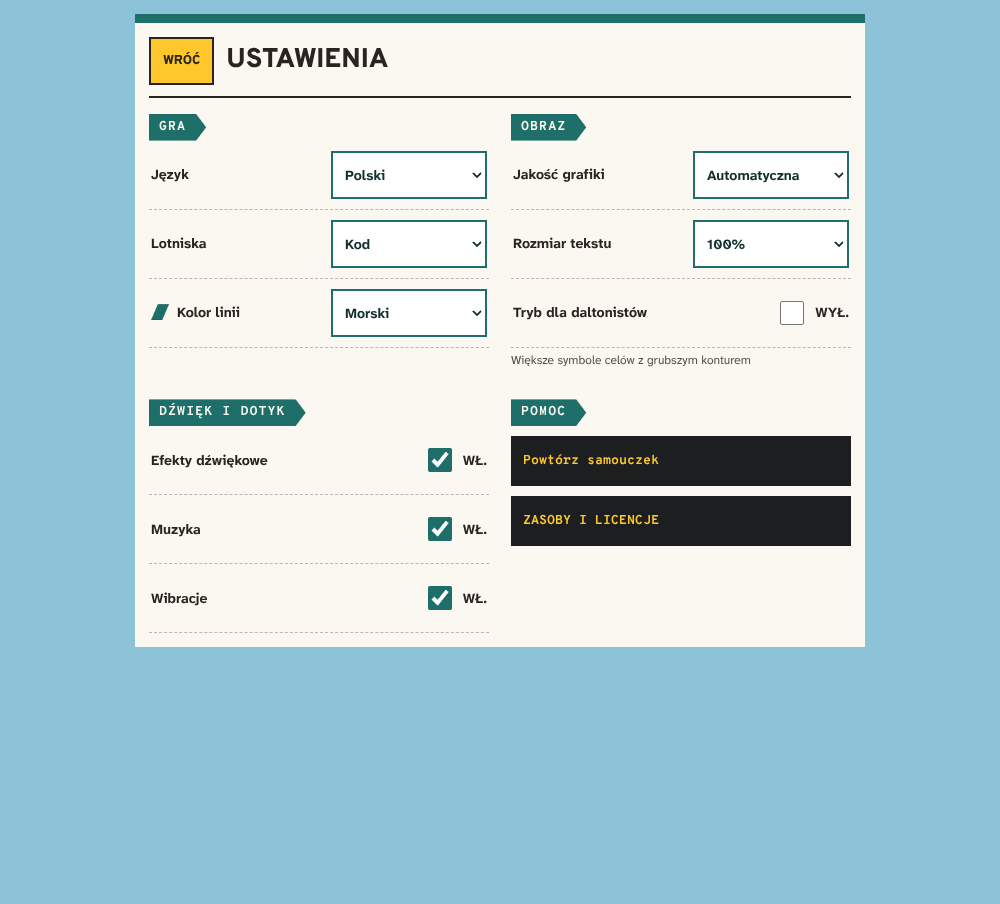
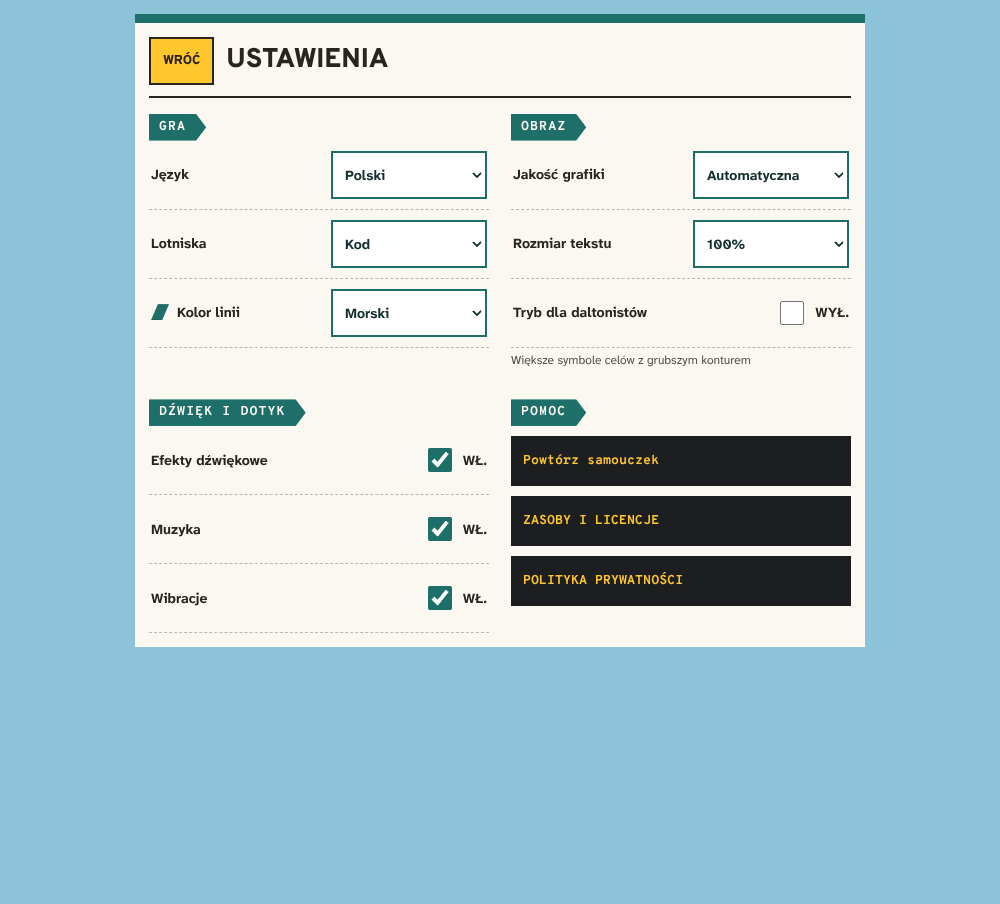
[N11e] Privacy policy reachable in the app; D-86, Q-52
Settings -> Help gains a 'Privacy policy' row that opens an in-app page with
the text of site/privacy.html (PL/EN, offline, back -> settings, globe covered).
test:privacy-text keeps the game copy equal to site/i18n.js; e2e privacy-page
checks the journey at four sizes. Also removes conflict markers committed in
docs/DECISIONS.md and gives the licences row a test id.

Changed region(s): [[0.496, 0.5885, 0.868, 0.6814]]

diff --git a/scripts/test-privacy-text.ts b/scripts/test-privacy-text.ts
@@ -1,0 +1,50 @@
+// [night-11e] The in-app privacy policy (settings → Privacy policy) shows the same text as the website's
+// site/privacy.html: every `privacy.*` key that page uses exists in both game catalogs with the exact site wording,
+// the sections are the page's sections in order, and the settings row has its label.
+import assert from 'node:assert/strict';
+import { readFileSync } from 'node:fs';
+import { en } from '../src/i18n/en.ts';
+import { pl } from '../src/i18n/pl.ts';
+import { translations } from '../site/i18n.js';
+
+let passed = 0;
+let failed = 0;
+function test(name: string, fn: () => void): void {
+  try { fn(); passed++; console.log(`PASS ${name}`); } catch (error) {
+    failed++; console.error(`FAIL ${name}: ${error instanceof Error ? error.message : String(error)}`);
+  }
+}
+
+const html = readFileSync(new URL('../site/privacy.html', import.meta.url), 'utf8');
+// Website-only keys: navigation back to the landing page has no meaning inside the app.
+const SITE_ONLY = new Set(['privacy.back']);
+const pageKeys = [...html.matchAll(/data-i18n="(privacy\.[^"]+)"/g)].map((match) => match[1] as string)
+  .filter((key, index, all) => !SITE_ONLY.has(key) && all.indexOf(key) === index);
+const games: Record<'en' | 'pl', Record<string, string>> = { en, pl };
+const site = translations as Record<'en' | 'pl', Record<string, string>>;
+
+test('privacy.html uses the expected keys', () => {
+  assert.ok(pageKeys.includes('privacy.title') && pageKeys.includes('privacy.date'), pageKeys.join(','));
+  assert.ok(pageKeys.length >= 13, `${pageKeys.length} keys`);
+});
+for (const language of ['en', 'pl'] as const) {
+  test(`${language}: every site privacy text is in the game catalog, word for word`, () => {
+    const missing = pageKeys.filter((key) => !(key in games[language]));
+    assert.deepEqual(missing, [], `missing in src/i18n/${language}.ts`);
+    const different = pageKeys.filter((key) => games[language][key] !== site[language][key]);
+    assert.deepEqual(different, [], `differs from site/i18n.js`);
+  });
+  test(`${language}: settings row label and offline note`, () => {
+    assert.ok((games[language]['settings.privacy'] ?? '').trim().length > 0);
+    assert.ok((games[language]['privacy.offline'] ?? '').trim().length > 0);
+  });
+}
+test('sections: the page has s1…s5 in order, as PRIVACY_SECTIONS in settings.ts', () => {
+  const sections = [...html.matchAll(/data-i18n="privacy\.s(\d+)\.title"/g)].map((match) => Number(match[1]));
+  const source = readFileSync(new URL('../src/ui/settings/settings.ts', import.meta.url), 'utf8');
+  const declared = source.match(/PRIVACY_SECTIONS=\[([\d,]+)\]/)?.[1]?.split(',').map(Number);
+  assert.deepEqual(declared, sections);
+});
+
+console.log(`SUMMARY test:privacy-text seed=0 cases=${passed + failed} passed=${passed} failed=${failed}`);
+if (failed) process.exitCode = 1;

diff --git a/src/ui/settings/settings.ts b/src/ui/settings/settings.ts
@@ -101,7 +101,7 @@ function header(title:string,onBack:()=>void):HTMLElement {
 
 export interface SettingsHandle { readonly element:HTMLElement; readonly firstFocus:HTMLElement; }
 
-export function createSettings(onBack:()=>void,onLicenses:()=>void,onLanguageChanged:()=>void,onReplayTutorial?:()=>void):SettingsHandle {
+export function createSettings(onBack:()=>void,onLicenses:()=>void,onLanguageChanged:()=>void,onReplayTutorial?:()=>void,onPrivacy?:()=>void):SettingsHandle {
   const values=readSettings();
   const root=e('section','airway-settings');
   const paper=e('div','airway-settings__paper');
@@ -182,8 +182,15 @@ export function createSettings(onBack:()=>void,onLicenses:()=>void,onLanguageCha
     host.append(replay);
   }
   const licences=e('button','airway-settings__licenses',t('settings.licenses'));
-  licences.type='button';licences.addEventListener('click',onLicenses);
-  host.append(licences);root.append(paper);
+  licences.type='button';licences.dataset.testid='settings-licenses';licences.addEventListener('click',onLicenses);
+  host.append(licences);
+  if(onPrivacy){ // [night-11e] R1b: the privacy policy is reachable inside the app, offline.
+    const privacy=e('button','airway-settings__licenses',t('settings.privacy'));
+    privacy.type='button';privacy.dataset.testid='settings-privacy';
+    privacy.addEventListener('click',onPrivacy);
+    host.append(privacy);
+  }
+  root.append(paper);
   return {element:root,firstFocus:top.querySelector('button') as HTMLElement};
 }
 
@@ -208,5 +215,23 @@ export function createLicenses(onBack:()=>void):SettingsHandle {
     list.append(item);
   }
   paper.append(list);root.append(paper);
+  return {element:root,firstFocus:top.querySelector('button') as HTMLElement};
+}
+
+/** [night-11e] Sections of the in-app privacy policy, in the order of site/privacy.html (test:privacy-text). */
+export const PRIVACY_SECTIONS=[1,2,3,4,5] as const;
+export function createPrivacy(onBack:()=>void):SettingsHandle {
+  const root=e('section','airway-settings');
+  const paper=e('div','airway-settings__paper airway-privacy');
+  paper.dataset.testid='privacy-page';
+  const top=header(t('privacy.title'),onBack);
+  paper.append(top,e('p','airway-privacy__overline',t('privacy.overline')),e('p','airway-privacy__warning',t('privacy.warning')));
+  for(const n of PRIVACY_SECTIONS){
+    const section=e('section','airway-privacy__section');
+    section.append(e('h2','',t(`privacy.s${n}.title` as TranslationKey)),e('p','',t(`privacy.s${n}.body` as TranslationKey)));
+    paper.append(section);
+  }
+  paper.append(e('p','airway-privacy__date',t('privacy.date')),e('p','airway-setting__hint',t('privacy.offline')));
+  root.append(paper);
   return {element:root,firstFocus:top.querySelector('button') as HTMLElement};
 }

diff --git a/src/i18n/pl.ts b/src/i18n/pl.ts
@@ -141,6 +141,23 @@ export const pl = {
   'licenses.publicDomain': 'Domena publiczna',
   'licenses.isc': 'Licencja ISC',
   'licenses.mit': 'Licencja MIT',
+  // [night-11e] In-app privacy policy: the same text as site/i18n.js (test:privacy-text keeps them equal).
+  'settings.privacy': 'POLITYKA PRYWATNOŚCI',
+  'privacy.offline': 'Ta kopia jest zapisana w grze i otwiera się bez połączenia.',
+  'privacy.overline': 'DOKUMENT / PRY-001',
+  'privacy.title': 'Polityka prywatności',
+  'privacy.warning': 'Projekt informacyjny — wymaga potwierdzenia przez właściciela przed publikacją i premierą gry.',
+  'privacy.s1.title': '1. Status i administrator',
+  'privacy.s1.body': 'Airway jest grą na etapie produkcji. Dane identyfikujące podmiot odpowiedzialny za grę i stronę zostaną uzupełnione przed publikacją. Kontakt w sprawach prywatności: contact@airway.games (adres do potwierdzenia).',
+  'privacy.s2.title': '2. Gra — planowany zakres MVP',
+  'privacy.s2.body': 'Zakładamy działanie gry offline, bez kont użytkowników, analityki, reklam i przekazywania danych osobowych do naszych serwerów. Jest to stan planowany i wymaga sprawdzenia wersji Android oraz iOS, w tym usług systemowych i sklepów.',
+  'privacy.s3.title': '3. Strona airway.games',
+  'privacy.s3.body': 'Ta strona nie zawiera formularzy, pikseli śledzących, reklam, usług analitycznych ani plików cookie ustawianych przez jej kod. Przełącznik języka korzysta jedynie z parametru w adresie. Dostawca hostingu może przetwarzać techniczne logi (np. adres IP, czas żądania); zakres i okres przechowywania zależą od wybranego hostingu i wymagają uzupełnienia.',
+  'privacy.s4.title': '4. Kontakt e-mail',
+  'privacy.s4.body': 'Jeżeli napiszesz do nas e-mail, przetworzenie treści wiadomości i adresu nadawcy będzie konieczne do udzielenia odpowiedzi. Podstawa prawna, okres przechowywania i nazwa administratora zostaną określone przed uruchomieniem oficjalnego kontaktu.',
+  'privacy.s5.title': '5. Prawa osób i aktualizacje',
+  'privacy.s5.body': 'Prawa osoby, której dotyczą dane, są określone w RODO, w tym prawo dostępu, sprostowania oraz — gdy ma to zastosowanie — usunięcia danych i wniesienia skargi do właściwego organu nadzorczego. Ostateczna polityka zostanie dostosowana do rzeczywistej wersji gry i hostingu przed publikacją.',
+  'privacy.date': 'Wersja robocza: 2 listopada 2026.',
   // [task-15] Tablica odlotów, raport i przyczyny zatoru.
   'gameover.title': 'Siatka wstrzymana',
   'gameover.departures': 'ODLOTY · {hub}',

diff --git a/src/i18n/en.ts b/src/i18n/en.ts
@@ -140,6 +140,23 @@ export const en = {
   'licenses.publicDomain': 'Public domain',
   'licenses.isc': 'ISC License',
   'licenses.mit': 'MIT License',
+  // [night-11e] In-app privacy policy: the same text as site/i18n.js (test:privacy-text keeps them equal).
+  'settings.privacy': 'PRIVACY POLICY',
+  'privacy.offline': 'This copy is stored in the game and opens without a connection.',
+  'privacy.overline': 'DOCUMENT / PRY-001',
+  'privacy.title': 'Privacy policy',
+  'privacy.warning': 'Informational draft — owner approval required before this website or game is published.',
+  'privacy.s1.title': '1. Status and data controller',
+  'privacy.s1.body': 'Airway is currently in development. The organization responsible for this site and the game will be identified before launch. Privacy contact: contact@airway.games (address pending confirmation).',
+  'privacy.s2.title': '2. Game — planned MVP',
+  'privacy.s2.body': 'The current plan is to run the game offline without accounts, analytics, advertising or the transfer of personal information to our own servers. These assumptions must be verified for Android and iOS builds, including platform and store services.',
+  'privacy.s3.title': '3. The airway.games website',
+  'privacy.s3.body': 'This website contains no forms, tracking pixels, advertising, analytics services or cookies set by its own code. The language switch uses only a URL parameter. The hosting provider may process technical server logs (such as IP addresses and request timestamps); exact retention and scope depend on the chosen host and must be disclosed before publishing.',
+  'privacy.s4.title': '4. Contact by email',
+  'privacy.s4.body': 'If you contact us by email, your address and the message content will need to be processed in order to reply. The legal basis, retention period and controller identity will be specified before official contact channels open.',
+  'privacy.s5.title': '5. Your rights and updates',
+  'privacy.s5.body': 'The GDPR provides rights including access, rectification and — where applicable — erasure, as well as the right to lodge a complaint with a competent supervisory authority. The final policy will reflect the actual shipped game and hosting setup.',
+  'privacy.date': 'Working draft: 2 November 2026.',
   // [task-15] Departure-board failure and ledger-based explanations.
   'gameover.title': 'Network closed',
   'gameover.departures': 'DEPARTURES · {hub}',

diff --git a/src/game/screens.ts b/src/game/screens.ts
@@ -2,12 +2,12 @@
 // composition root registers. Back/Escape is handled once here via src/platform/back.
 import { installBackHandler, type BackOptions } from '../platform';
 import { createMenu, type MenuData, type MenuHandle, type MenuMode } from '../ui/menu/menu';
-import { createSettings, createLicenses } from '../ui/settings/settings';
+import { createSettings, createLicenses, createPrivacy } from '../ui/settings/settings';
 import { createLogbook, type LogbookData } from '../ui/logbook/logbook';
 
-export type ScreenName = 'menu' | 'settings' | 'licenses' | 'logbook' | 'puzzles' | 'tutorial' | 'game';
-export type ModeScreen = Exclude<ScreenName, 'menu' | 'settings' | 'licenses' | 'logbook'>;
-type RouterScreen = 'menu' | 'settings' | 'licenses' | 'logbook';
+export type ScreenName = 'menu' | 'settings' | 'licenses' | 'privacy' | 'logbook' | 'puzzles' | 'tutorial' | 'game';
+export type ModeScreen = Exclude<ScreenName, 'menu' | 'settings' | 'licenses' | 'privacy' | 'logbook'>;
+type RouterScreen = 'menu' | 'settings' | 'licenses' | 'privacy' | 'logbook';
 
 /** A registered screen. back() returns true when it consumed the press (e.g. closed a sheet). */
 export interface ScreenView {
@@ -78,16 +78,17 @@ export function mountScreens(host: HTMLElement, options: ScreensOptions = {}): S
       replace('settings', createSettings(() => show('menu'), () => show('licenses'), () => {
         options.onLanguageChanged?.();
         show('settings', true);
-      }, options.onReplayTutorial));
+      }, options.onReplayTutorial, () => show('privacy')));
     } else if (screen === 'logbook') {
       const data = options.getLogbookData?.();
       if (!data) return;
       replace('logbook', createLogbook(() => show('menu'), data));
-    } else replace('licenses', createLicenses(() => show('settings')));
+    } else if (screen === 'privacy') replace('privacy', createPrivacy(() => show('settings'))); // [night-11e]
+    else replace('licenses', createLicenses(() => show('settings')));
   }
   const back = (): boolean => {
     if (active.back?.()) return true;
-    if (name === 'licenses') { show('settings'); return true; }
+    if (name === 'licenses' || name === 'privacy') { show('settings'); return true; }
     if (name !== 'menu') { show('menu'); return true; }
     // On the root menu the OS owns app exit.
     return false;

diff --git a/src/ui/menu/menu.css b/src/ui/menu/menu.css
@@ -63,6 +63,16 @@
 .airway-licenses { font:400 13px/1.5 'Atkinson Hyperlegible Next',sans-serif; }
 .airway-licenses li { padding:9px 0; border-bottom:1px dashed #c2b5a6; }
 .airway-licenses strong { display:block; }
+/* [night-11e] In-app privacy policy: a filed document on the settings paper (R1b). */
+.airway-privacy { font:400 14px/1.55 'Atkinson Hyperlegible Next',sans-serif; }
+.airway-privacy > :not(.airway-settings__heading) { max-width:64ch; }
+.airway-privacy h1 { overflow-wrap:anywhere; }
+.airway-privacy__overline { margin:4px 0 6px; font:700 12px/1.3 'Overpass Mono',monospace; letter-spacing:.08em; color:#1e6f6a; }
+.airway-privacy__warning { margin:0 0 12px; padding:8px 10px; border:2px dashed #c8352a; color:#8a2219; font-weight:700; }
+.airway-privacy__section { padding:8px 0 4px; border-bottom:1px dashed #c2b5a6; }
+.airway-privacy__section h2 { margin:0 0 4px; font:800 16px/1.25 'Overpass',sans-serif; }
+.airway-privacy__section p { margin:0 0 6px; overflow-wrap:anywhere; }
+.airway-privacy__date { margin:12px 0 2px; font:400 12px/1.4 'Overpass Mono',monospace; color:#55514a; }
 @media (orientation:landscape) { .airway-sign { top:calc(env(safe-area-inset-top, 0px) + 12px); left:calc(env(safe-area-inset-left, 0px) + 16px); } .airway-sign__pictogram {width:42px;height:42px;} .airway-sign__title {font-size:39px;} .airway-board { left:calc(env(safe-area-inset-left,0px) + 16px); bottom:calc(env(safe-area-inset-bottom,0px) + 7px); right:auto; width:min(410px, calc(100% - env(safe-area-inset-left,0px) - env(safe-area-inset-right,0px) - 30px)); padding:8px 9px; } .airway-flight {min-height:59px;padding:5px 0;} .airway-notice {top:76px;left:auto;right:20px;} .airway-settings__paper {max-width:730px;} }
 @media (max-width:370px) { .airway-board {left:4px;right:4px;padding:6px;} .flap-tile{--flap-w:9px;--flap-font:11px;} .airway-board__header, .airway-flight { grid-template-columns:minmax(0,1fr) 46px 80px;gap:6px;} /* [task-37] BRAMKA (≈42px) needs ≥8px before STATUS */ }
 @media (max-height:470px) and (orientation:landscape) { .airway-flight{min-height:58px;} .airway-board__header{min-height:19px;} .airway-sign__subtitle{font-size:9px;} }

diff --git a/src/main.ts b/src/main.ts
@@ -160,7 +160,7 @@ async function boot(): Promise<void> {
       if (name !== 'game') {
         if (session) { endSession(); world?.reset(); }
         world?.showMenuBackdrop();
-        screenName = name === 'settings' || name === 'licenses' ? 'settings' : name === 'logbook' ? 'logbook' : 'menu';
+        screenName = name === 'settings' || name === 'licenses' || name === 'privacy' ? 'settings' : name === 'logbook' ? 'logbook' : 'menu';
       }
     },
     onLanguageChanged: () => { document.title = t('app.title'); },
@@ -314,7 +314,7 @@ async function boot(): Promise<void> {
   function devState(): AwDevState {
     const run = session?.run;
     return {
-      screen: session ? screenName : (screens.current() === 'settings' || screens.current() === 'licenses' ? 'settings'
+      screen: session ? screenName : (screens.current() === 'settings' || screens.current() === 'licenses' || screens.current() === 'privacy' ? 'settings'
         : screens.current() === 'logbook' ? 'logbook' : 'menu'),
       seed: run?.seed ?? pendingSeed ?? 0,
       tick: run?.tick ?? 0,

diff --git a/docs/TESTING.md b/docs/TESTING.md
@@ -88,6 +88,7 @@ Times are measured in the integration container (8 vCPU, SwiftShader); “ci” 
 | `npm run test:pause-summary` | fast | <1 s | [night-10j] Pause sheet summary rows (`src/game/pauseSummary.ts`): network with/without spare aircraft, fullest hub by share of capacity (stable ties, zero capacity ignored), "none yet", crate countdown in days or hours, no countdown without weekly boards, PL plurals | `SUMMARY test:pause-summary seed=0xA1A1 passed=5 failed=0` |
 | `npm run test:puzzle-best` | fast | <1 s | [night-10l] Best margin per puzzle (`src/game/puzzleBest.ts`, key `airway.puzzles.margin.v1`): first clear, wider/same/narrower runs, clamping to 0..9999, malformed values and unknown levels dropped, denied storage never throws | `SUMMARY test:puzzle-best seed=0xA1A1 passed=4 failed=0` |
 | `npm run test:logbook` | fast | <1 s | [night-10n] Logbook store (`src/game/logbook.ts`, key `airway.logbook.v1`): totals and longest flight, newest-first list capped at 6, favourite hub (ties → most recent), the run's hub (hub on most routes, else busiest airport, ties alphabetical), malformed records/entries dropped, denied storage never throws, bounded hub table | `SUMMARY test:logbook seed=0 cases=8 passed=8 failed=0` |
+| `npm run test:privacy-text` | fast | <1 s | [night-11e] In-app privacy policy = website text: every `privacy.*` key used by `site/privacy.html` (except the site-only back link) is in `src/i18n/{en,pl}.ts` word for word as in `site/i18n.js`; settings label and offline note present; `PRIVACY_SECTIONS` in `settings.ts` lists the page's sections in order. 1/6 before N11e | `SUMMARY test:privacy-text seed=0 cases=6 passed=6 failed=0` |
 | `npm run test:run-timeline` | fast | ~1 s | [night-10r] End-of-run timeline (`src/game/runTimeline.ts`): a bot-played Endless run (0xA1A1, 4 weeks) re-read from its journal in a separate Sim: weeks 1..end, route/extension/aircraft counts equal the journal's network commands, each weekly crate in the week after its board, the live sim untouched; a well-formed command the sim refuses at its tick is not counted (fails with the rejection filter off); a journal past the run's end gives null; the replay yields in slices. [night-10t] The live Sim's recorded outcomes give the same timeline with no replay (wrong seed, zero yields); a refused command is recorded as not accepted; a run resumed from a snapshot replays only the prefix before the resume; undo keeps the outcomes equal to a fresh replay's | `SUMMARY test:run-timeline seed=0xA1A1 ticks=14624 weeks=4 passed=9 failed=0` |
 | `npm run test:arch` | fast (last) | 1 s | TS-AST guard: `src/sim` imports only pure modules; no DOM, Capacitor, three, wall clock, `Math.random` or transcendentals (D-13) | `… files=N passed=1 failed=0` |
 | `npm run test:fast` | — | 30 s | All rows marked “fast”, in order | `SUMMARY test:fast … steps=36 passed=36 failed=0` |
@@ -112,7 +113,7 @@ Times are measured in the integration container (8 vCPU, SwiftShader); “ci” 
 | `npm run test:e2e:curfew-barrier` | ci | ~10 s | [night-10g] Bot plays Endless seed 0xA1A1 to the week-3 board, then one decision per game hour until the curfew closes airports (week 4): the renderer draws exactly as many barrier rings as the sim closes (`aw.state().curfewDrawn`), and none after the night (EN 412×915, PL 915×412); [N10h] every closed airport's luggage tag has the barrier stub and a label naming the curfew, its edge chip the striped bar, at least one sign on screen, all gone after the night; fails 0/2 without the session sync; shots `docs/shots/n10g/` | `SUMMARY test:e2e:curfew-barrier seed=0xA1A1 steps=2 passed=2 failed=0` |
 | `npm run test:e2e:transfer-glyphs` | ci | ~15 s | [night-10i] Bot plays Endless seed 0xA1A1 to week 2, then the game steps one minute at a time until a visible luggage tag shows hollow transfer glyphs: every such tag has the `--connecting` class and the label "Making a connection" / "W trakcie przesiadki", and the hollow glyphs fill in within 50 minutes (EN 412×915, PL 915×412); shots `docs/shots/n10i/` | `SUMMARY test:e2e:transfer-glyphs seed=0xA1A1 steps=2 passed=2 failed=0` |
 | `npm run test:e2e:pause-summary` | ci | ~15 s | [night-10j] Bot plays Endless seed 0xA1A1 to week 2, Escape opens the pause sheet: three summary rows with real numbers in the player's language, sheet inside the viewport and clear of the boarding pass, text not clipped, three ≥ 48 px buttons (EN 412×915, PL 915×412, PL 360×640, EN 320×568; failed 2/4 before Save and Menu shared a row); shots `docs/shots/n10j/` | `SUMMARY test:e2e:pause-summary seed=0xA1A1 steps=4 passed=4 failed=0` |
-| `npm run test:e2e:settings-groups` | ci | ~12 s | [night-10k] Settings screen: four labelled sections in order (Game: language, airport labels, airline colour; Display: graphics, text size, colour-vision mode; Sound and touch: sound, music, haptics; Help: tutorial replay, licences) with translated titles, two columns on wide landscape paper (915×412, 1000×904) and one on phones (412×915, 320×568), no horizontal scroll; shots `docs/shots/n10k/` | `SUMMARY test:e2e:settings-groups seed=0xA1A1 steps=4 passed=4 failed=0` |
+| `npm run test:e2e:settings-groups` | ci | ~12 s | [night-10k] Settings screen: four labelled sections in order (Game: language, airport labels, airline colour; Display: graphics, text size, colour-vision mode; Sound and touch: sound, music, haptics; Help: tutorial replay, licences, privacy policy — N11e) with translated titles, two columns on wide landscape paper (915×412, 1000×904) and one on phones (412×915, 320×568), no horizontal scroll; shots `docs/shots/n10k/` | `SUMMARY test:e2e:settings-groups seed=0xA1A1 steps=4 passed=4 failed=0` |
 | `npm run test:e2e:puzzle-best` | ci | ~12 s | [night-10l] An earlier clear of puzzle 01 at +0% shows "best +0%" on the board flap (and its label) and "Your best" on the ticket; the reference solution through the UI reports "new best", the board and storage show the wider margin, the same result again is not news (EN 412×915, PL 915×412); shots `docs/shots/n10l/` | `SUMMARY test:e2e:puzzle-best seed=0xA1A1 steps=2 passed=2 failed=0` |
 | `npm run test:e2e:puzzle-board-scroll` | ci | ~15 s | [night-10y] Puzzle board opens where the player is (EN 412×915, PL 915×412, PL 360×640): a fresh profile at puzzle 01 (list not scrolled); with 01–19 cleared flap 20 is fully visible; Back from puzzle 27 and Escape (router back) from 05 return to that flap with focus; the page itself never scrolls. 3/12 pass on the old board | `SUMMARY test:e2e:puzzle-board-scroll seed=0xA1A1 cases=3 passed=12 failed=0` |
 | `npm run test:e2e:gameover-short` | ci | ~25 s | [night-10m] Game-over report on short portrait phones (PL/EN 360×640 and 320×568): after a bot run to week 2 and a forced jam, and on the DEV preview (three departures from the jammed hub, three causes), all three actions lie inside the viewport without scrolling, are ≥ 48 px and sit below the report strip; failed 2/4 on the old CSS at 320×568 (and the long play found "New world"/"Menu" below 360×640); shots `docs/shots/n10m/` | `SUMMARY test:e2e:gameover-short seed=0xA1A1 steps=4 passed=4 failed=0` |
@@ -123,6 +124,7 @@ Times are measured in the integration container (8 vCPU, SwiftShader); “ci” 
 | `npm run test:e2e:edge-chip-airports` | ci | ~25 s | [night-10v] Real Endless run, seed 41817, to the first week offering "+2 slots"; after a rotation the airport pick opens and the pick target (an airport by the left edge) must be the globe, not an off-screen airport's edge chip, and its tap completes the pick. EN 412×915 (fails 1/2 on the old overlay), PL 915×412; shots `docs/shots/n10v/` | `SUMMARY test:e2e:edge-chip-airports seed=41817 steps=2 passed=2 failed=0` |
 | `npm run test:e2e:edge-chip-tags` | ci | ~35 s | [night-10z] Seeds 0xA1C2 and 41817 at EN 412×915, PL 915×412, PL 673×841: after the week-1 and week-2 boards and a day later each, no visible edge chip overlaps a visible airport tag (main or slot tag); ≥ 20 chips sampled over all cases. Fails on seed 41817 412×915 before N10z (MAD chip under a NEW tag) | `SUMMARY test:e2e:edge-chip-tags seeds=2 steps=6 chips=39 passed=6 failed=0` |
 | `npm run test:e2e:edge-chip-fill` | ci | ~60 s | [night-11d] Seeds 0xA1C2 and 41817 at EN 412×915 and PL 915×412: after the week-1 board, a day later, zoomed in and every 2 h for 12 h, every visible edge chip carries the waiting-area gauge of its airport (length = waiting / capacity, min 8 %, hidden at 0, red from ¾ full, below the code, inside the chip, named in the label); ≥ 6 gauges and ≥ 1 red over all cases. Fails 0/4 on the old overlay (no gauge) | `SUMMARY test:e2e:edge-chip-fill steps=4 chips=99 gauges=73 high=4 passed=4 failed=0` |
+| `npm run test:e2e:privacy-page` | ci | ~22 s | [night-11e] PL 412×915, EN 915×412, EN 412×915, PL 320×568: Settings → Help → "Privacy policy" (≥ 48 px) opens the in-app policy (title, draft warning, five sections and date equal to `site/i18n.js`), focus on Back, no horizontal scroll, no request outside the app; Back and hardware back/Escape return to settings. Shots `docs/shots/n11e/`. 0/4 on the old settings | `SUMMARY test:e2e:privacy-page seed=0xA1A1 steps=4 passed=4 failed=0` |
 | `npm run test:e2e:covered-pages` | ci | ~35 s | [night-11a] EN 412×915 and PL 915×412: the DEV probe `__awWorld.frames()` counts 0 globe frames over 1.2 s behind settings, licences, logbook, puzzle board, puzzle 01 and the tutorial replay, and ≥ 3 on the menu (also after Back) and in a game. 0/2 before N11a (36 frames behind settings) | `SUMMARY test:e2e:covered-pages seed=0xA1A1 steps=2 passed=2 failed=0` |
 | `npm run test:e2e:pseudo-locale` | ci | ~130 s | [night-10p] DEV pseudo-locale (`?pseudo`, `src/i18n/pseudo.ts`: every string ~40 % longer, accented, in brackets) on the departure board, settings, logbook, puzzle board, pause sheet, weekly upgrade board, game over and ([night-10q]) the in-game HUD (boarding pass, plane-tag dock) and airport tags after a day of bot play × PL 360×640, EN 360×640, EN 915×412 (27 checks): no own text clipped by an overflow/ellipsis box and no text run wider than its own box (a mask or ancestor would hide it; split-flap cells skipped, they are fixed by design), nothing outside the viewport, buttons ≥ 48 px, no template token, no horizontal page scroll; failed 3/21 on the old cargo-label kicker and 6/27 on the old pass label and board column heads; shots in `.e2e/pseudo/` (not committed) | `SUMMARY test:e2e:pseudo-locale seed=0xA1A1 checks=27 passed=27 failed=0` |
 | `npm run ui:long-play -- <lang> <w> <h> <speed> <minutes>` | manual | = minutes | [night-07x] Long real-time play-through (default pl 412 915 1 20): DEV bot one decision at a time (`aw.botStep`), pointer plane drags, real card clicks and airport taps, periodic pause, rotation, save → reload → Continue, game overs answered with same/new world. Log and PNGs in `.e2e/long-play/<tag>/`; exits 1 on ISSUE lines (frozen clock, Continue mismatch, off-screen buttons, pick without target, page errors). Do not edit sources while it runs (Vite reloads) | `SUMMARY ui:long-play <tag> minutes=20 runs=… maxWeek=… issues=0` |

diff --git a/docs/DECISIONS.md b/docs/DECISIONS.md
@@ -593,7 +593,6 @@ On a daily, "Same world" starts a practice of the same day's world (menu once th
 starts Endless; both used to drop silently to the menu. Rationale: the share path existed since task 18 but was never
 reachable, and a button must do what it says. **Status: in force (N10e, `test:e2e:daily-share`).**
 
-<<<<<<< HEAD
 ## D-82 — Airline colour palette approved as is (2026-11-03, owner, Q-37)
 The six colours of D-80 (navy default, sky blue, brick, ochre, rose, graphite; `src/data/airline-colours.json`, ΔE ≥ 15
 under CVD via `test:cvd`) stay. Plane colours are judged once M1 (#52) paints the tail fin. **Status: in force.**
@@ -609,7 +608,7 @@ The share text keeps no link; `airway.games` is added once the domain and the la
 ## D-85 — Logbook entry stays half of the last menu board row (2026-11-03, owner, Q-40)
 "SETTINGS D0 · LOGBOOK D1" keeps sharing the last split-flap row (option A of Q-40); no separate row, the logbook is not
 moved into settings. **Status: in force.**
-=======
+
 ## D-90 — Balance bot plays for reach (2026-11-03, Claude, night N12a)
 The DEV/balance bot (`src/game/dev/bot-policy.ts`) values the widebody on the weekly board like a turboprop-only
 network needs it: +80 when the fleet owns no widebody or an active airport without a route lies beyond turboprop
@@ -619,4 +618,13 @@ one, it may pair two unserved airports with each other (a new network island). R
 were at an airport no route served, 20 of them beyond turboprop reach — a measuring-stick fault, not game balance.
 Now 7 of 40; `test:balance` median 14.55 → 17.81 min, 1st/2nd board 86/50 → 88/56 %. No game parameter changed;
 the median now sits near the D-79 upper bound (Q-51). **Status: in force (N12a, `test:bot-policy`).**
->>>>>>> origin/dev
+
+## D-86 — Privacy policy inside the app, same text as the site (2026-11-03, Claude, night N11e)
+Settings → Help gains a "Privacy policy / Polityka prywatności" row under the licences. It opens an in-app page
+(router screen `privacy`, back → settings, the globe does not draw behind it) with the text of `site/privacy.html`:
+title, the draft warning, its five sections and date, plus one line that the copy is stored in the game and opens
+without a connection. The game catalogs hold a copy of the site's `privacy.*` strings; `test:privacy-text` fails when
+they differ from `site/i18n.js`, so the site stays the one source. No public URL is shown until the site is published
+(D-67); the leaderboard section waits for the owner (Q-52). Rationale: Google's User Data policy wants the policy
+reachable inside the app (RESEARCH R1, R1b); an offline page works on every build and in every store review.
+**Status: in force (N11e, `test:privacy-text`, `test:e2e:privacy-page`).**

diff --git a/docs/NIGHT-BACKLOG.md b/docs/NIGHT-BACKLOG.md
@@ -349,6 +349,15 @@ Gate (on a fresh worktree from origin/dev with your branch merged): `npm ci`, `n
       DEV `aw.state().airports` (waiting, capacity). Also recorded the owner's answers Q-37…Q-40 as D-82…D-85.
       `e2e/edge-chip-fill.mjs` (`test:e2e:edge-chip-fill`, in `test:ci`; 0/4 on the old overlay).
 
+- [x] N11e **Privacy policy reachable in the app (R1b, D-86)** — there was no "privacy" string in the game. Settings →
+      Help gains "Privacy policy / Polityka prywatności" (≥ 48 px, under the licences); it opens an in-app page with the
+      text of `site/privacy.html` (title, draft warning, five sections, date) in the player's language, offline, Back and
+      hardware back/Escape return to settings, the globe does not draw behind it. The game catalogs copy the site's
+      `privacy.*` strings and `test:privacy-text` (in `test:fast`) fails when they drift from `site/i18n.js`. No public
+      URL until D-67; the leaderboard section of the policy waits for Q-52. Also fixed conflict markers committed in
+      `docs/DECISIONS.md` (D-82…D-85 / D-90) and gave the licences row a test id (`e2e/covered-pages.mjs` clicked "the
+      last Help button"). `e2e/privacy-page.mjs` (`test:e2e:privacy-page`, in `test:ci`; 0/4 on the old settings).
+
 ## Continuous development round N12 (agent 2)
 - [x] N12a **Balance bot plays for reach (D-90)** — the handover gap "the DEV bot rarely connects new airports; long
       plays end in weeks 1–3": measured, 34 of 44 bot game overs (50 seeds) were at an airport no route served, 20 of
@@ -376,7 +385,7 @@ the owner's answer in `docs/OWNER-QUESTIONS.md`. Tick and log like the N items.
       `test:firebase` (emulator: entries and user gone, second call idempotent), e2e on the settings row; update
       `docs/legal/leaderboards-privacy.md` and `docs/FIREBASE.md` step 9. **Area:** `functions/`, `src/net/**`,
       `src/ui/settings/**`, i18n. *Needs Q-41.*
-- [ ] R1b **Privacy policy reachable in the app** — Google's User Data policy wants the policy inside the app when
+- [x] R1b → N11e **Privacy policy reachable in the app** — Google's User Data policy wants the policy inside the app when
       user data is handled; there is no "privacy" string in `src/` today. Settings/licences gain a "Privacy" row that
       opens the policy (bundled offline copy of `site/privacy.html` content as an in-app page, PL/EN, plus the public
       URL once D-67 publishes the site). **Area:** `src/ui/settings/**`, i18n, `site/` (shared text source).

diff --git a/docs/OWNER-QUESTIONS.md b/docs/OWNER-QUESTIONS.md
@@ -25,6 +25,7 @@ Priorytet: **P1** — blokuje wydanie albo sklep, **P2** — warto zdecydować p
 | Q-06 | P2 | Osobny ekran rankingu w menu (obok „Wyzwanie dnia”)? | A: tak; B: tylko tablica na ekranie końca gry | B — tablica „Ranking · data” na końcu oficjalnej gry dnia | A, jako małe zadanie po teście rankingów na prawdziwym Firebase | #50 |
 | Q-07 | P1 | Założenie projektu Firebase (kroki w `docs/FIREBASE.md`) i budżet z alertami | Budżet np. 10 EUR/mies.; region | Funkcja działa tylko na emulatorze | Założyć przed testem zamkniętym; budżet 10 EUR z alertami 50/90/100 % | `docs/FIREBASE.md`, D-66 |
 | Q-41 | P1 | Usuwanie danych rankingu z poziomu aplikacji: Apple (5.1.1(v)) wymaga, by usunięcie konta — także automatycznego konta gościa — dało się rozpocząć w aplikacji; sam e-mail (D-77) nie wystarcza poza branżami regulowanymi | A: przycisk „Usuń moje dane rankingu” w ustawieniach (usuwa wpisy i anonimowe konto) + e-mail jako ścieżka WWW dla Google; B: tylko e-mail (ryzyko odrzucenia w App Store); C: pierwsze wydanie iOS bez rankingów | Tylko e-mail (D-77), brak przycisku | A (zadanie R1a, uzupełnia D-77) | R1, `docs/RESEARCH.md` R1 |
+| Q-52 | P1 | Polityka prywatności w grze (N11e, ustawienia → Pomoc → „Polityka prywatności”) pokazuje dokładnie tekst `site/privacy.html`, a ten mówi „bez kont, bez przekazywania danych”. Build z rankingami (D-66) wysyła wynik i zapis ruchów do Firebase z anonimowym kontem — szkic sekcji jest w `docs/legal/leaderboards-privacy.md`. Kiedy dopisać tę sekcję do strony i gry? | A: po decyzji Q-01/Q-41 dopisać sekcję rankingów do `site/i18n.js` i gry (test pilnuje zgodności), build z rankingami dopiero wtedy; B: pokazywać sekcję rankingów w grze tylko w buildzie z konfiguracją Firebase; C: zostawić | Tekst strony, bez sekcji rankingów; publiczny adres nie jest pokazywany (D-67: strona jeszcze nie opublikowana) | A (jeden tekst dla wszystkich buildów, prościej i uczciwie) | N11 |
 
 ## B. Rozgrywka i balans
 
